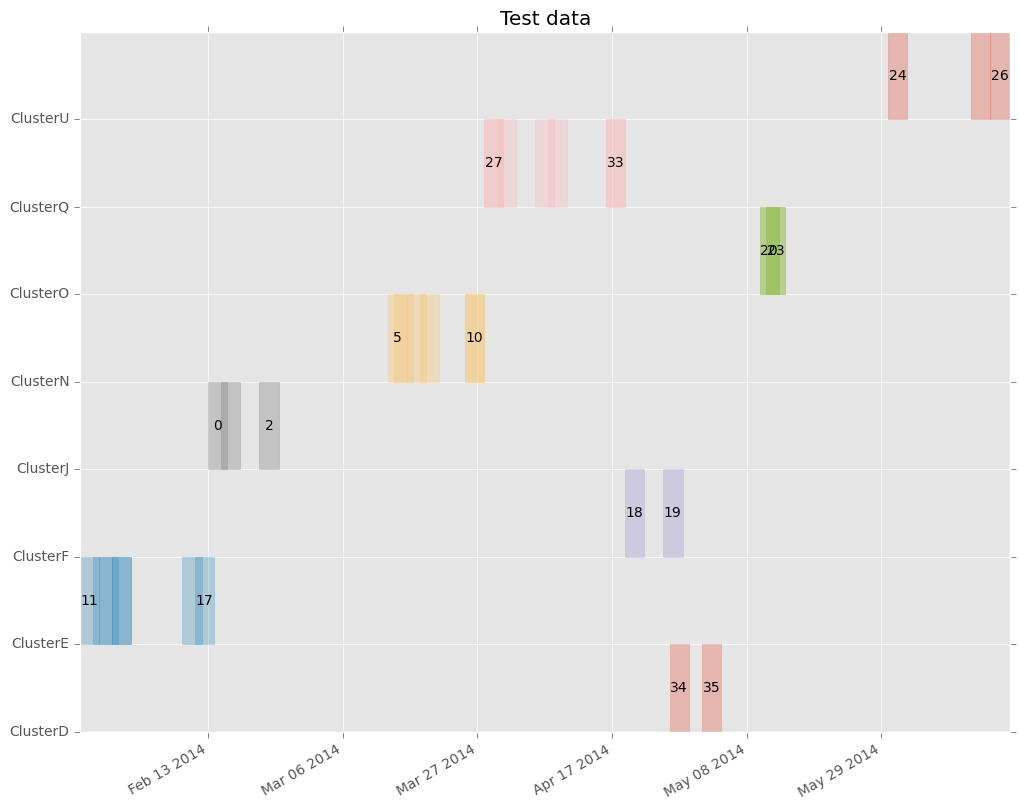
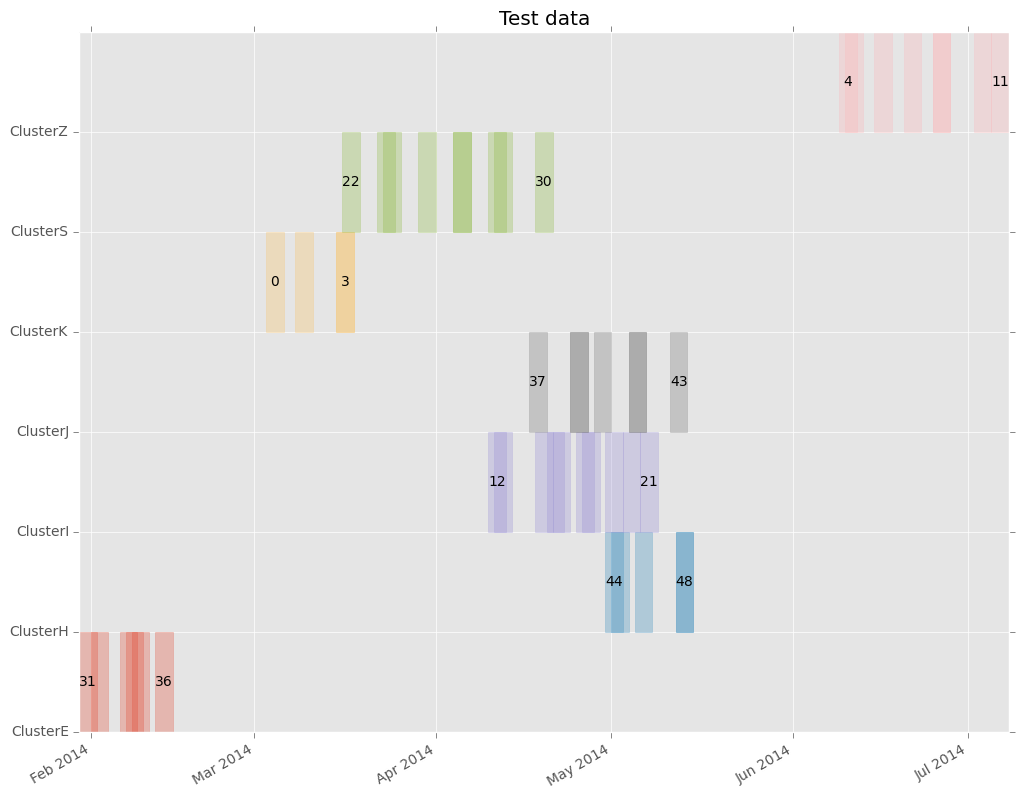
final commits before push

diff --git a/docs/examples.py b/docs/examples.py
@@ -26,13 +26,13 @@ dir = os.path.dirname(__file__)
 #################################
 
 # Generate example data
-example_df = epipy.generate_example_data(cluster_size=6, outbreak_len=180, clusters=8,
-                                         gen_time=5, attribute='health')
+example_df = epipy.generate_example_data(cluster_size=7, outbreak_len=180, clusters=7,
+                                         gen_time=4, attribute='health')
 
 # Case tree plot                                        
 fig, ax = epipy.case_tree_plot(example_df, cluster_id = 'Cluster', \
-                    case_id ='ID', date_col='Date', color='health', \
-                    gen_mean=5, gen_sd = 4)
+                    case_id ='ID', date_col='Date', color='Cluster', \
+                    gen_mean=4, gen_sd = 1)
 ax.set_title('Example outbreak data')
 fig.savefig(os.path.join(dir, '../figs/example_casetree.png'), bbox_inches='tight')
 
